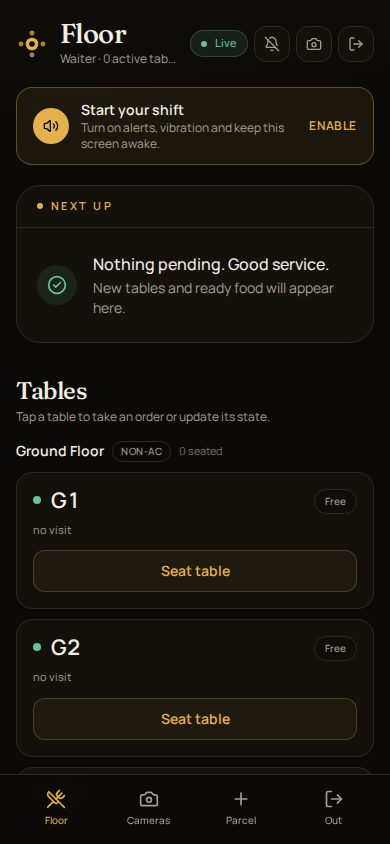
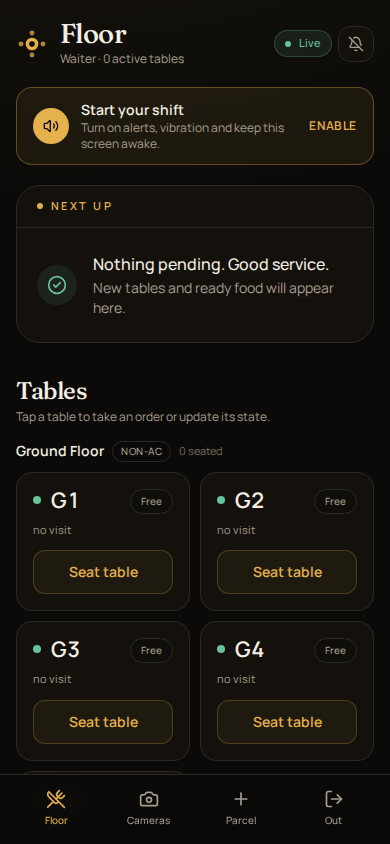
P7: reception and waiter screen fixes

diff --git a/apps/web/src/app/waiter/page.tsx b/apps/web/src/app/waiter/page.tsx
@@ -12,6 +12,7 @@ import {
   type NotificationState,
 } from "@/lib/notifications";
 import { useShift } from "@/lib/shift";
+import { useWaiterOrders } from "@/components/waiter-orders";
 import {
   STATE_DOT,
   STATE_LABEL,
@@ -40,16 +41,17 @@ import { useRouter } from "next/navigation";
 import { useCallback, useEffect, useMemo, useRef, useState } from "react";
 
 const BTN =
-  "inline-flex items-center justify-center gap-1.5 rounded-xl border border-line bg-surface px-3 py-2 text-sm font-medium text-ink transition hover:border-slate-600 hover:bg-raised disabled:opacity-40";
+  "inline-flex min-h-11 items-center justify-center gap-1.5 rounded-xl border border-line bg-surface px-3 py-2 text-sm font-medium text-ink transition hover:border-slate-600 hover:bg-raised disabled:opacity-40";
 const BTN_PRIMARY =
-  "inline-flex items-center justify-center gap-1.5 rounded-xl bg-accent px-3 py-2 text-sm font-semibold text-canvas transition hover:bg-[#efc05e] disabled:bg-raised disabled:text-faint disabled:hover:bg-raised";
+  "inline-flex min-h-11 items-center justify-center gap-1.5 rounded-xl bg-accent px-3 py-2 text-sm font-semibold text-canvas transition hover:bg-[#efc05e] disabled:bg-raised disabled:text-faint disabled:hover:bg-raised";
 const BTN_TABLE =
-  "inline-flex items-center justify-center gap-1.5 rounded-xl border border-accent/25 bg-accent/[0.06] px-3 py-2.5 text-sm font-semibold text-accent transition hover:bg-accent/[0.12] disabled:opacity-40";
+  "inline-flex min-h-11 items-center justify-center gap-1.5 rounded-xl border border-accent/25 bg-accent/[0.06] px-3 py-2.5 text-sm font-semibold text-accent transition hover:bg-accent/[0.12] disabled:opacity-40";
 
 export default function WaiterPage() {
   const router = useRouter();
   const { snapshot, stream, unauthorized, error, refresh, serverNowMs, setError } = useSnapshotLive();
   const shift = useShift();
+  const { pending, failed } = useWaiterOrders();
   const [busy, setBusy] = useState<string | null>(null);
   const [lastZone, setLastZone] = useState<string | null>(null);
   const [notificationState, setNotificationState] = useState<NotificationState>("default");
@@ -173,6 +175,12 @@ export default function WaiterPage() {
   }
 
   async function signOut() {
+    if (
+      pending.length + failed.length > 0 &&
+      !window.confirm("You have queued or failed orders. Sign out anyway? They stay on this device.")
+    ) {
+      return;
+    }
     await fetch("/api/auth/logout", { method: "POST" });
     router.replace("/login");
   }
@@ -276,21 +284,6 @@ export default function WaiterPage() {
             <span className="hidden text-sm sm:inline">
               {notificationState === "granted" ? "Alerts on" : "Alerts"}
             </span>
-          </button>
-          <Link
-            href="/waiter/cameras"
-            className="flex h-9 w-9 items-center justify-center rounded-xl border border-line bg-surface text-muted transition hover:text-ink sm:w-auto sm:gap-1.5 sm:px-3"
-          >
-            <Camera className="h-4 w-4" />
-            <span className="hidden text-sm sm:inline">Cameras</span>
-          </Link>
-          <button
-            type="button"
-            onClick={() => void signOut()}
-            className="flex h-9 w-9 items-center justify-center rounded-xl border border-line bg-surface text-muted transition hover:text-ink sm:w-auto sm:gap-1.5 sm:px-3"
-          >
-            <LogOut className="h-4 w-4" />
-            <span className="hidden text-sm sm:inline">Out</span>
           </button>
         </div>
       </header>
@@ -435,7 +428,7 @@ export default function WaiterPage() {
                 {zone.tables.filter((table) => table.session).length} seated
               </span>
             </div>
-            <div className="grid grid-cols-1 gap-2.5 sm:grid-cols-2 xl:grid-cols-3">
+            <div data-testid="table-grid" className="grid grid-cols-2 gap-2.5 xl:grid-cols-3">
               {zone.tables.map((table) => (
                 <TableCard
                   key={table.id}
@@ -593,6 +586,16 @@ function TableCard({
         {table.session && table.state === "food_ready" ? (
           <button type="button" className={BTN} disabled={busy !== null} onClick={onServe}>
             <CheckCircle2 className="h-3.5 w-3.5" /> Served
+          </button>
+        ) : null}
+        {table.session && (table.state === "dining" || table.state === "bill_requested") ? (
+          <button
+            type="button"
+            className={BTN}
+            disabled={busy !== null || table.state === "bill_requested"}
+            onClick={onBill}
+          >
+            Bill
           </button>
         ) : null}
       </div>

diff --git a/e2e/ui-fixes.spec.ts b/e2e/ui-fixes.spec.ts
@@ -1,0 +1,74 @@
+import { expect, test } from "@playwright/test";
+import { RECEPTIONIST_PIN, WAITER_PIN, addFirstVariant, loginAdminApi, loginPin, openTableOrder, resetTables } from "./helpers";
+
+for (const viewport of [
+  { width: 1366, height: 768 },
+  { width: 1280, height: 800 },
+]) {
+  test(`reception payment is visible at ${viewport.width}x${viewport.height}`, async ({ browser, request }) => {
+    await loginAdminApi(request);
+    await resetTables(request);
+
+    const waiterContext = await browser.newContext({ viewport });
+    const waiter = await waiterContext.newPage();
+    await loginPin(waiter, WAITER_PIN);
+    await openTableOrder(waiter, "G3");
+    await addFirstVariant(waiter);
+    await waiter.getByRole("button", { name: "Send to kitchen" }).click();
+    await waiter.waitForURL(/\/waiter$/);
+
+    const receptionContext = await browser.newContext({ viewport });
+    const reception = await receptionContext.newPage();
+    await loginPin(reception, RECEPTIONIST_PIN);
+    await expect(reception).toHaveURL(/\/reception$/);
+    await reception.getByRole("button", { name: /G3/ }).first().click();
+    const pay = reception.getByRole("button", { name: "Take payment & close" });
+    await expect(pay).toBeVisible();
+    await expect
+      .poll(async () => {
+        const box = await pay.boundingBox();
+        return box ? box.y + box.height : Number.MAX_SAFE_INTEGER;
+      })
+      .toBeLessThanOrEqual(viewport.height);
+
+    await waiterContext.close();
+    await receptionContext.close();
+  });
+}
+
+test("waiter table grid is two columns at 390px", async ({ browser, request }) => {
+  await loginAdminApi(request);
+  await resetTables(request);
+
+  const context = await browser.newContext({ viewport: { width: 390, height: 844 } });
+  const page = await context.newPage();
+  await loginPin(page, WAITER_PIN);
+  const columns = await page.locator('[data-testid="table-grid"]').first().evaluate(
+    (element) => getComputedStyle(element).gridTemplateColumns.split(" ").length,
+  );
+  expect(columns).toBe(2);
+  await context.close();
+});
+
+test("sign out asks before leaving with queued orders", async ({ browser, request }) => {
+  await loginAdminApi(request);
+  await resetTables(request);
+
+  const context = await browser.newContext({ viewport: { width: 390, height: 844 } });
+  const page = await context.newPage();
+  await loginPin(page, WAITER_PIN);
+  await openTableOrder(page, "G4");
+  await addFirstVariant(page);
+  await page.context().route("**/api/orders", (route) =>
+    route.fulfill({ status: 500, contentType: "application/json", body: JSON.stringify({ error: "down" }) }),
+  );
+  await page.getByRole("button", { name: "Send to kitchen" }).click();
+  await page.waitForURL(/\/waiter$/);
+  await expect(page.getByText(/^\d+ orders? queued/)).toBeVisible();
+
+  page.once("dialog", (dialog) => void dialog.dismiss());
+  await page.getByRole("button", { name: "Out" }).click();
+  await expect(page).toHaveURL(/\/waiter$/);
+
+  await context.close();
+});

diff --git a/apps/web/src/app/reception/page.tsx b/apps/web/src/app/reception/page.tsx
@@ -681,8 +681,8 @@ export default function ReceptionPage() {
             ) : null}
 
             {bill.bill?.status === "OPEN" ? (
-              <div className="no-print grid gap-3 xl:grid-cols-2">
-                <section className="rounded-2xl border border-line bg-surface p-4">
+              <div className="no-print grid gap-3 xl:grid-cols-[minmax(0,1fr)_minmax(360px,420px)]">
+                <section className="rounded-2xl border border-line bg-surface p-4 xl:row-span-2">
                   <h2 className="text-[11px] font-semibold uppercase tracking-[0.18em] text-muted">
                     Items · void before payment
                   </h2>
@@ -862,7 +862,7 @@ export default function ReceptionPage() {
                   ) : null}
                 </section>
 
-                <section className="rounded-2xl border border-line bg-surface p-4 xl:col-span-2">
+                <section className="payment-dock rounded-2xl border border-line bg-surface p-4">
                   <h2 className="text-[11px] font-semibold uppercase tracking-[0.18em] text-muted">
                     Payment
                   </h2>

diff --git a/apps/web/src/app/globals.css b/apps/web/src/app/globals.css
@@ -242,3 +242,17 @@ button {
     margin: 4mm;
   }
 }
+
+@media (min-width: 1280px) and (min-height: 760px) {
+  .reception-shell { padding-right: 420px; }
+  .payment-dock {
+    position: fixed;
+    right: 1rem;
+    bottom: 1rem;
+    z-index: 30;
+    width: 400px;
+    max-height: calc(100dvh - 2rem);
+    overflow-y: auto;
+    box-shadow: 0 8px 24px rgb(28 25 21 / 0.12);
+  }
+}

diff --git a/tasks/PHASE-7.md b/tasks/PHASE-7.md
@@ -1,0 +1,15 @@
+# Phase 7 report — screen fixes
+
+| Task | Status | Evidence | Files |
+|---|---|---|---|
+| Reception payment visibility | done | Playwright at 1366×768 and 1280×800: Pay button bottom edge inside viewport | `apps/web/src/app/reception/page.tsx`, `apps/web/src/app/globals.css`, `e2e/ui-fixes.spec.ts` |
+| Waiter layout | done | Playwright at 390×844: table grid has two columns; urgent states sort first in code | `apps/web/src/app/waiter/page.tsx` |
+| One-tap actions | done | Served button already direct for `food_ready`; Bill button now direct for `dining`/`bill_requested` | waiter page |
+| Duplicate controls | done | Header camera/sign-out controls removed; bottom nav retained | waiter page |
+| Sign-out confirmation | done | Playwright with queued order: dismissing confirmation stays on `/waiter` | waiter page, `e2e/ui-fixes.spec.ts` |
+| Touch targets and states | done | Waiter buttons have `min-h-11`; existing disabled/loading states retained | waiter page |
+| Light/dark screenshots | done | `e2e/screenshots.spec.ts` regenerated all role screenshots | `docs/screenshots/` |
+
+Verification: typecheck clean, Playwright 22/22, production build clean.
+
+Not verified: physical phone touch behaviour, real printer viewport, and OS-level light/dark switching outside Playwright.
